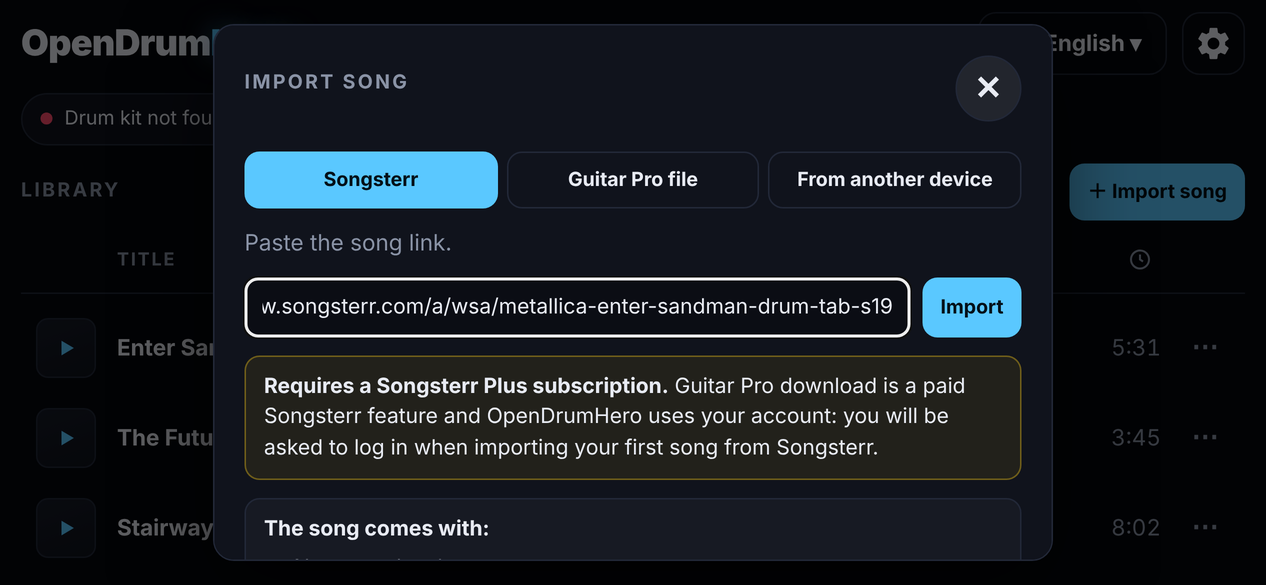
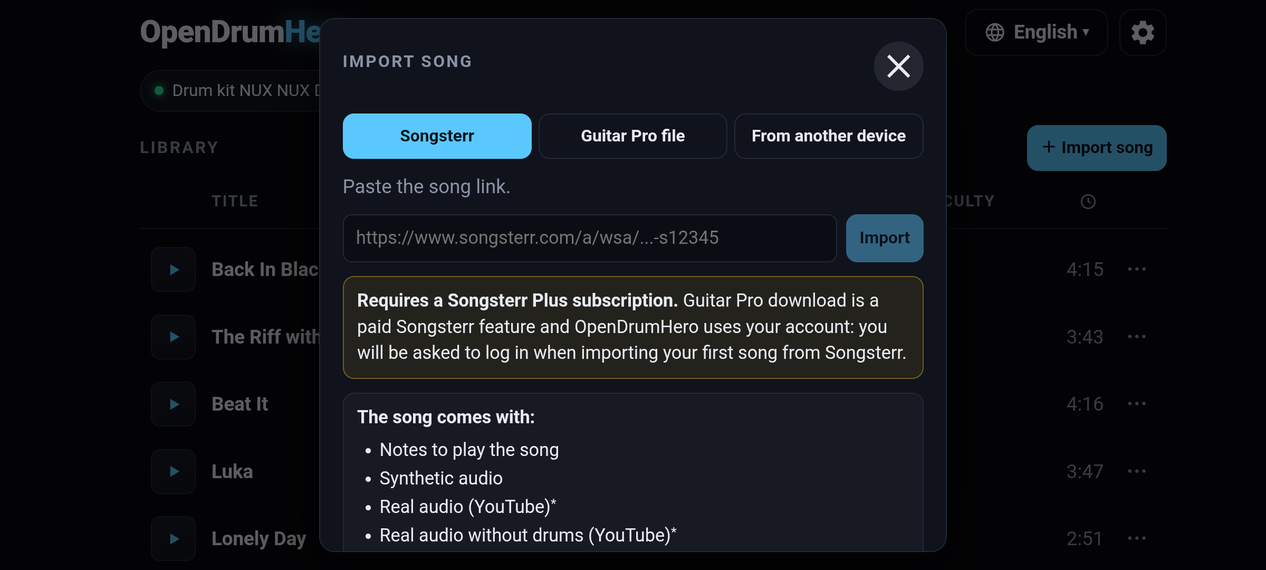
docs: Songsterr import print from a real phone
Claude-Session: https://claude.ai/code/session_01Xk1u2fa6xdHZjKcbRZARjH

diff --git a/README.md b/README.md
@@ -126,7 +126,7 @@ D/S = crashes, ; = ride — all remappable in *Map drum kit*). On the phone, tap
 
 ## Importing songs
 
-![Import window on a phone: Songsterr tab with a song link pasted](docs/screenshots/import.png)
+![Import window on a phone: the Songsterr tab](docs/screenshots/import.png)
 
 **Import song** in the library has three tabs:
 
